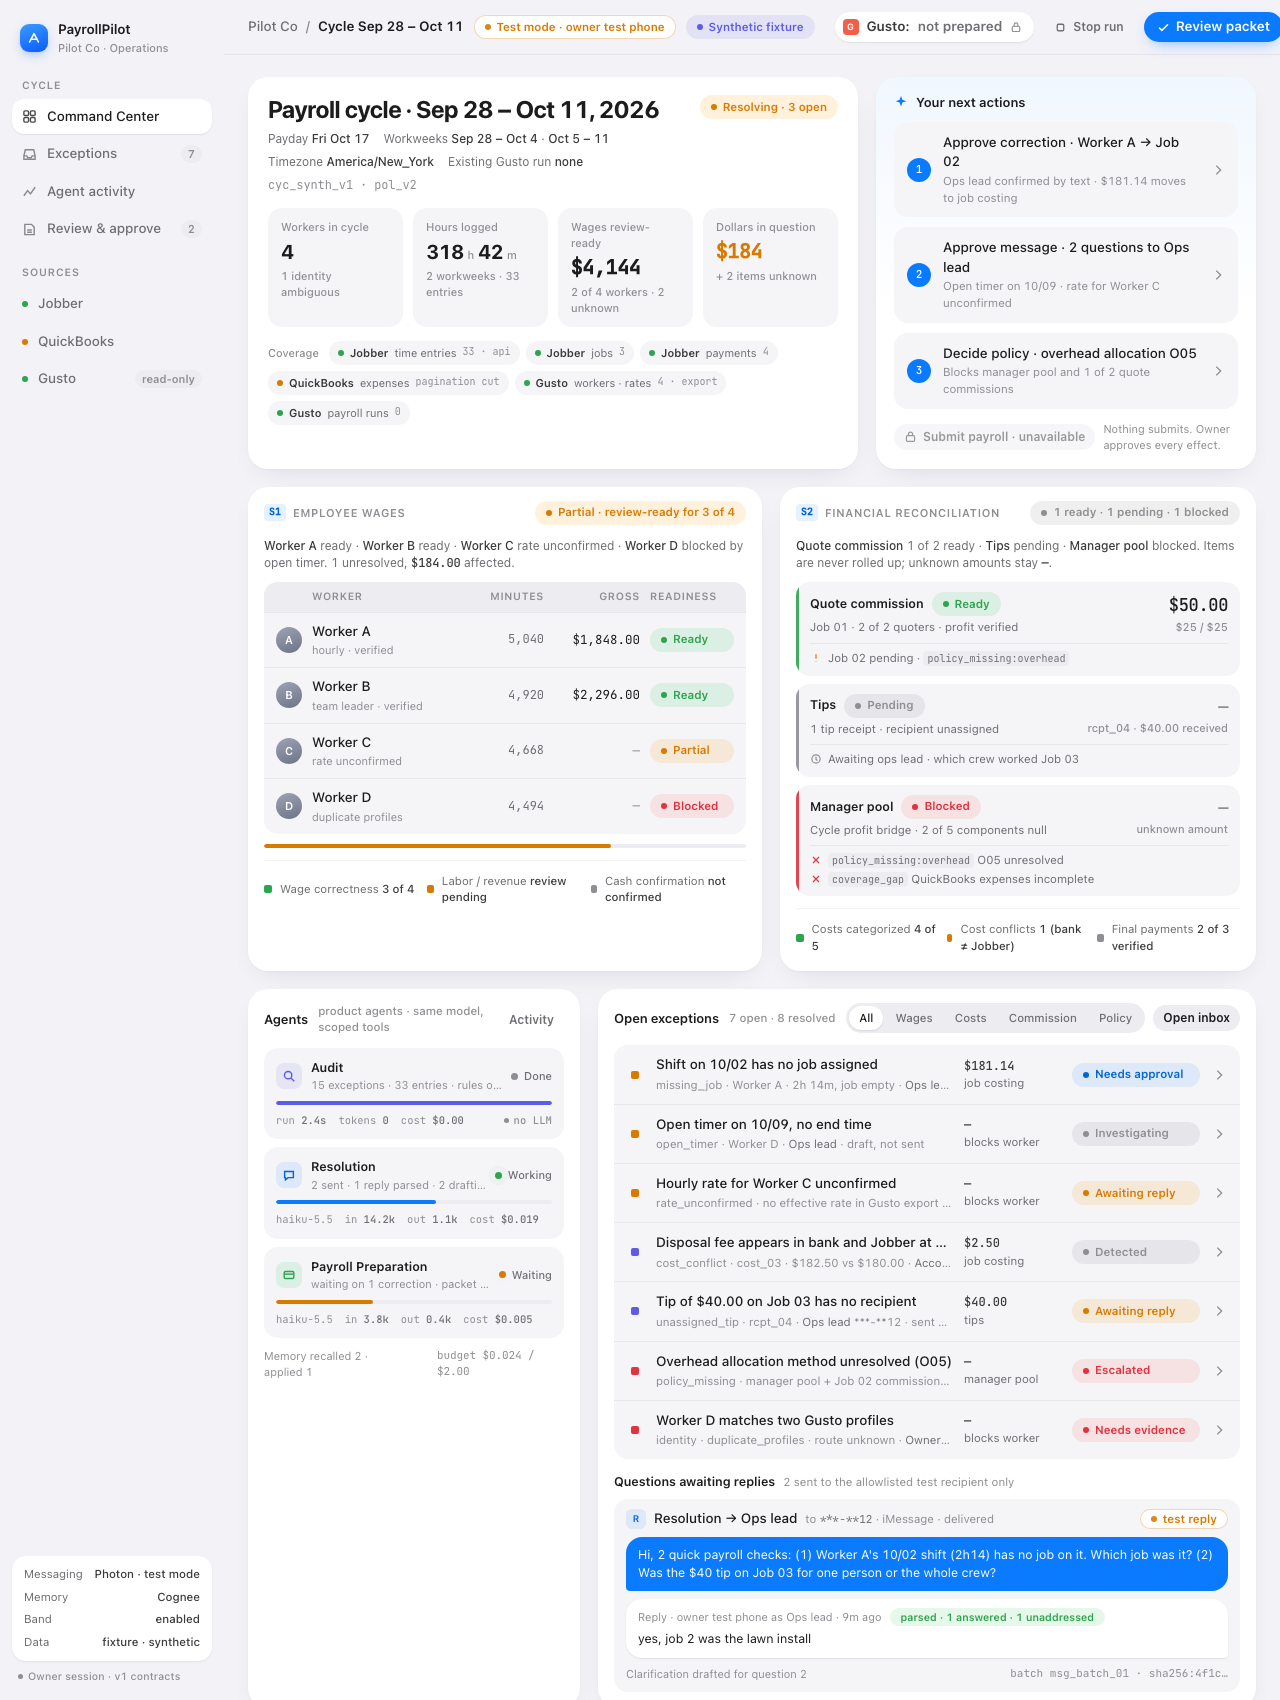
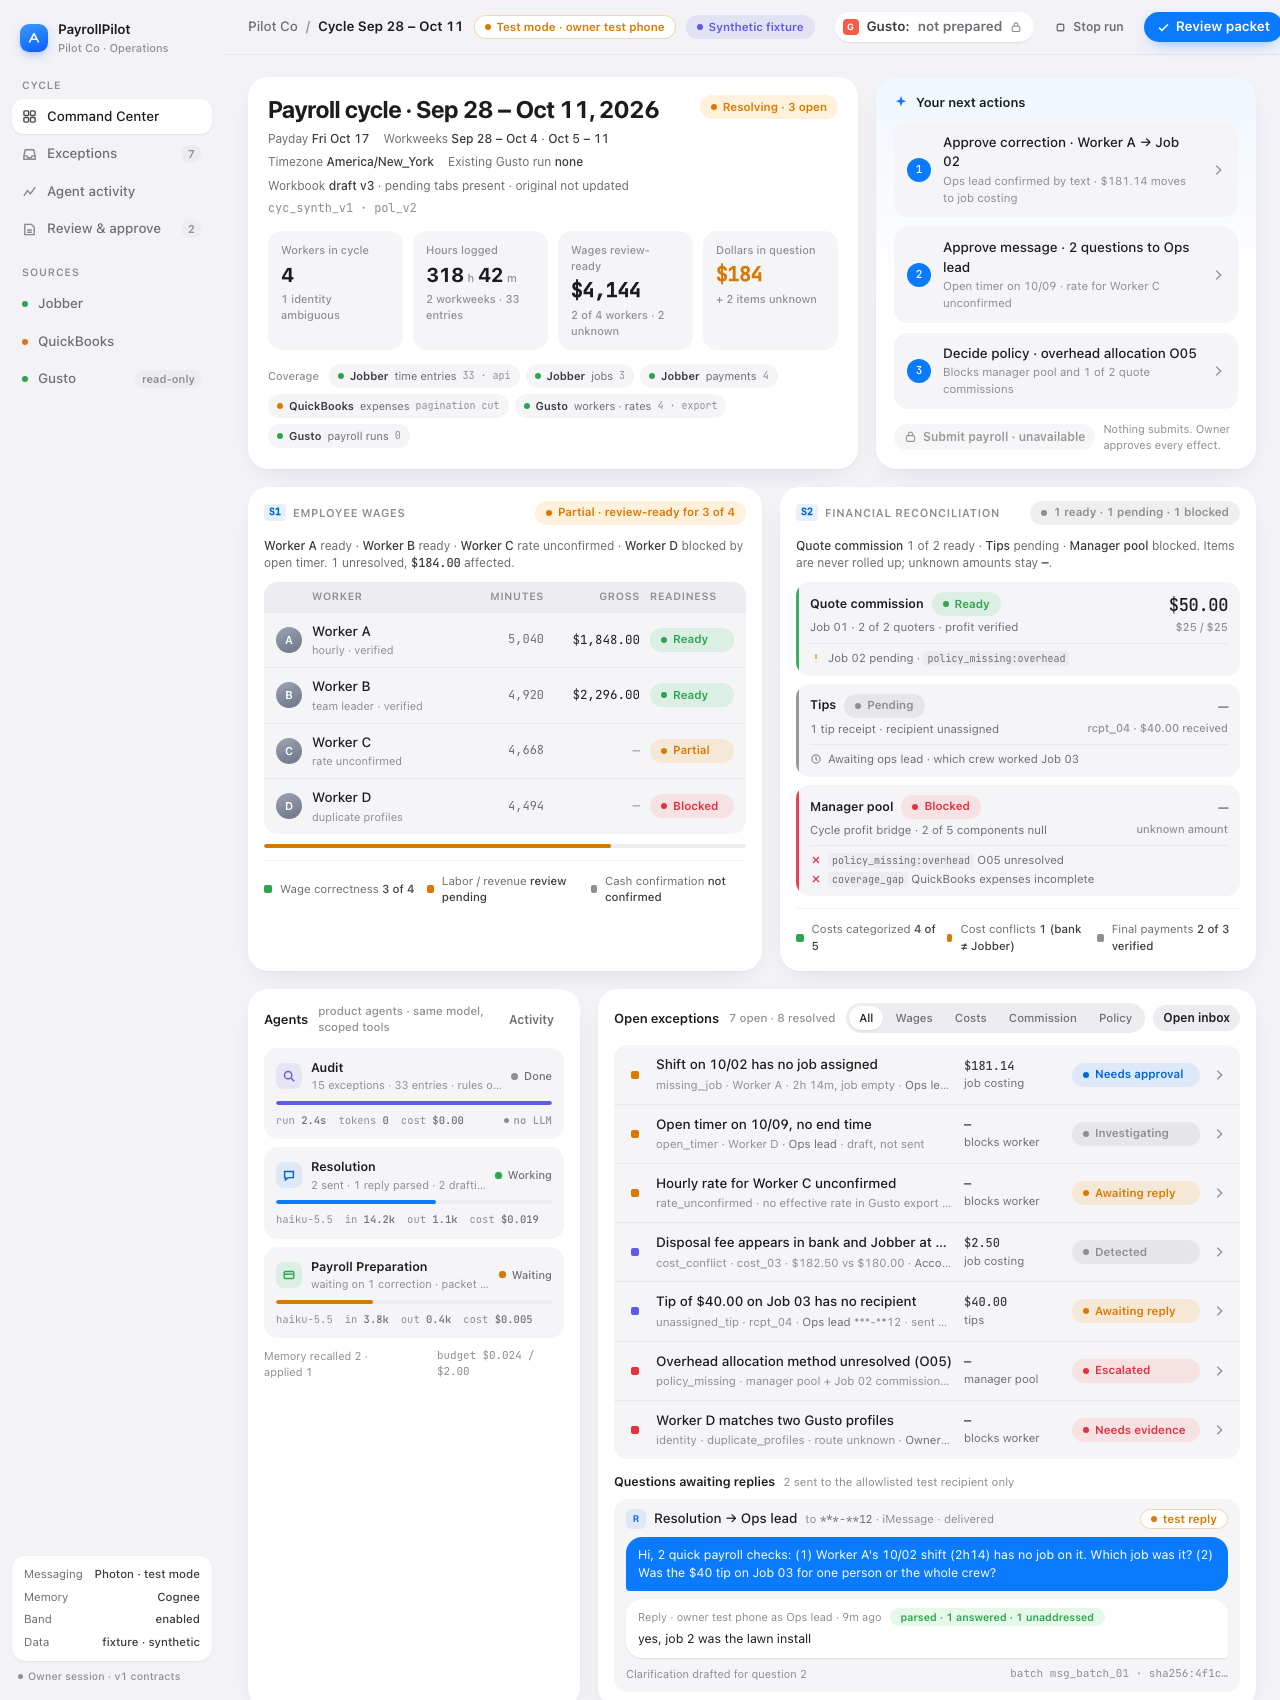
G-01: align copy with PRODUCT-STATEMENT (workbook line, playback provenance)

diff --git a/design/command-center.html b/design/command-center.html
@@ -305,6 +305,7 @@
                 <span>Workweeks <b>Sep 28 – Oct 4</b> · <b>Oct 5 – 11</b></span>
                 <span>Timezone <b>America/New_York</b></span>
                 <span>Existing Gusto run <b>none</b></span>
+                <span>Workbook <b>draft v3</b> · pending tabs present · original not updated</span>
                 <span class="mono" style="color:var(--fg-3)">cyc_synth_v1 · pol_v2</span>
               </div>
             </div>
@@ -469,6 +470,7 @@
         <span class="prov synthetic">synthetic fixture cycle_synthetic_v1</span>
         <span class="prov seeded">seeded issues labeled in inbox</span>
         <span class="prov test-reply">replies are test_reply</span>
+        <span class="prov">playback labeled when replayed</span>
         <span class="spacer"></span>
         <span>Sources read-only · no source writes · no payroll submission</span>
       </div>

diff --git a/design/DESIGN.md b/design/DESIGN.md
@@ -31,9 +31,9 @@ Direction: clean, Apple-like. Soft gray page, white cards with large radii and v
 | `--blocked` / `--blocked-dim` | `#E0323F` / `rgba(255,59,48,.10)` | Readiness `blocked`, escalated, blocked instruction |
 | `--info` / `--info-dim` | `#5E5CE6` / `rgba(94,92,230,.10)` | synthetic/fixture provenance, cost category |
 
-Readiness state → color is the only semantic color mapping in the UI. Never use green for anything that is not `ready`.
+Readiness state → color is the only semantic color mapping in the UI. Never use green for anything that is not `ready`. Copy rules from docs/PRODUCT-STATEMENT.md: no "payroll complete", no "automatic"; every send and correction shows an owner approval; unknown stays `—` and is a blocker.
 
-Provenance (dot + label, always visible, low contrast): `real` green, `cached` gray, `synthetic` indigo, `seeded_issue` orange, `test_reply` blue. Test mode is an orange outlined pill in the top bar on every screen.
+Provenance (dot + label, always visible, low contrast): `real` green, `cached` gray, `synthetic` indigo, `seeded_issue` orange, `test_reply` blue, `playback` gray (replayed scripted replies). Test mode is an orange outlined pill in the top bar on every screen.
 
 ## Type
 
